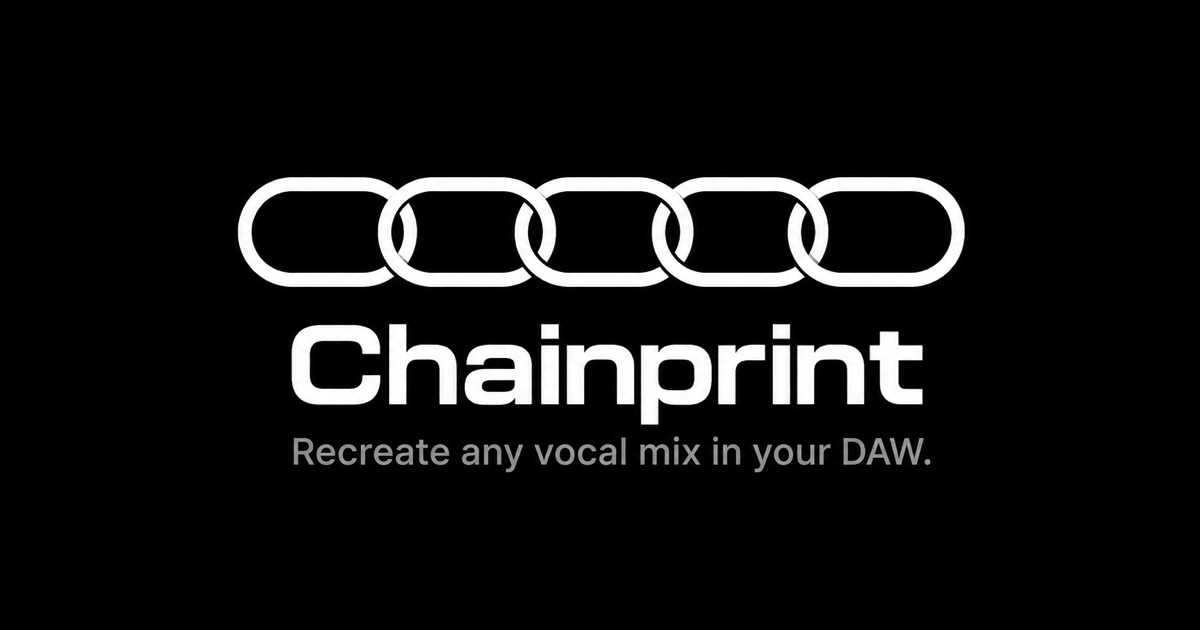
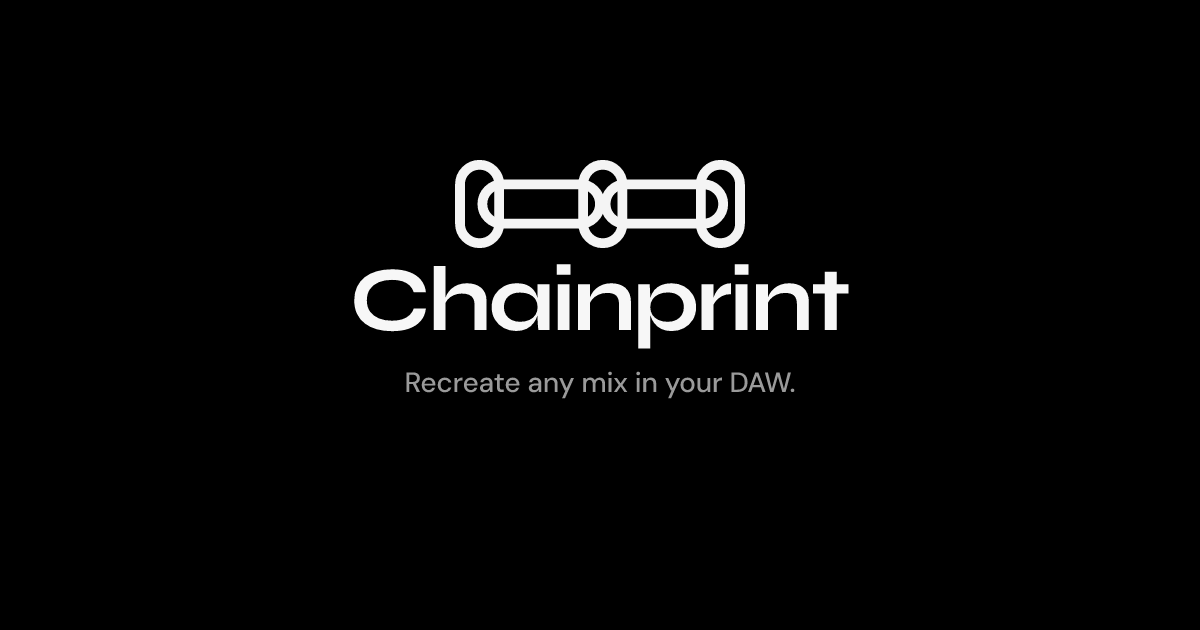
Replace OG image with the real chain mark and current tagline.
The old share preview used Audi-style rings and vocal-only copy; regenerate from mark.svg + Syne and cache-bust og:image URLs.

Changed region(s): [[0.185, 0.2413, 0.8017, 0.754]]

diff --git a/find/index.html b/find/index.html
@@ -22,8 +22,8 @@
   <meta property="og:title" content="Free Key Finder &amp; BPM Finder | Chainprint" />
   <meta property="og:description" content="Detect any song’s musical key, relative key, and BPM. Upload audio or paste a streaming link — free, fast, private." />
   <meta property="og:url" content="https://chainprint.app/find/" />
-  <meta property="og:image" content="https://chainprint.app/assets/og-image.png" />
-  <meta property="og:image:secure_url" content="https://chainprint.app/assets/og-image.png" />
+  <meta property="og:image" content="https://chainprint.app/assets/og-image.png?v=20260726" />
+  <meta property="og:image:secure_url" content="https://chainprint.app/assets/og-image.png?v=20260726" />
   <meta property="og:image:type" content="image/png" />
   <meta property="og:image:width" content="1200" />
   <meta property="og:image:height" content="630" />
@@ -31,7 +31,7 @@
   <meta name="twitter:card" content="summary_large_image" />
   <meta name="twitter:title" content="Free Key Finder &amp; BPM Finder | Chainprint" />
   <meta name="twitter:description" content="Find song key and BPM online. Upload a file or paste Spotify, Apple Music, YouTube, or SoundCloud." />
-  <meta name="twitter:image" content="https://chainprint.app/assets/og-image.png" />
+  <meta name="twitter:image" content="https://chainprint.app/assets/og-image.png?v=20260726" />
   <link rel="preconnect" href="https://fonts.googleapis.com" />
   <link rel="preconnect" href="https://fonts.gstatic.com" crossorigin />
   <link rel="stylesheet" href="https://fonts.googleapis.com/css2?family=DM+Sans:ital,opsz,wght@0,9..40,400;0,9..40,500;0,9..40,600;0,9..40,700;1,9..40,400&family=JetBrains+Mono:wght@400;500&family=Syne:wght@600;700;800&display=swap" />
@@ -71,7 +71,7 @@
           "name": "Chainprint",
           "url": "https://chainprint.app/"
         },
-        "image": "https://chainprint.app/assets/og-image.png"
+        "image": "https://chainprint.app/assets/og-image.png?v=20260726"
       },
       {
         "@type": "BreadcrumbList",

diff --git a/analyze/index.html b/analyze/index.html
@@ -21,16 +21,16 @@
   <meta property="og:title" content="CHAINPRINT — Vocal, Instrumental &amp; Full Mix" />
   <meta property="og:description" content="Reverse-engineer vocal, instrumental, or full-mix settings from any reference." />
   <meta property="og:url" content="https://chainprint.app/analyze/" />
-  <meta property="og:image" content="https://chainprint.app/assets/og-image.png" />
-  <meta property="og:image:secure_url" content="https://chainprint.app/assets/og-image.png" />
+  <meta property="og:image" content="https://chainprint.app/assets/og-image.png?v=20260726" />
+  <meta property="og:image:secure_url" content="https://chainprint.app/assets/og-image.png?v=20260726" />
   <meta property="og:image:type" content="image/png" />
   <meta property="og:image:width" content="1200" />
   <meta property="og:image:height" content="630" />
-  <meta property="og:image:alt" content="Chainprint — recreate any vocal mix in your DAW" />
+  <meta property="og:image:alt" content="Chainprint — recreate any mix in your DAW" />
   <meta name="twitter:card" content="summary_large_image" />
   <meta name="twitter:title" content="CHAINPRINT — Vocal, Instrumental &amp; Full Mix" />
   <meta name="twitter:description" content="Reverse-engineer vocal, instrumental, or full-mix settings from any reference." />
-  <meta name="twitter:image" content="https://chainprint.app/assets/og-image.png" />
+  <meta name="twitter:image" content="https://chainprint.app/assets/og-image.png?v=20260726" />
   <link rel="preconnect" href="https://fonts.googleapis.com" />
   <link rel="preconnect" href="https://fonts.gstatic.com" crossorigin />
   <link rel="stylesheet" href="https://fonts.googleapis.com/css2?family=DM+Sans:ital,opsz,wght@0,9..40,400;0,9..40,500;0,9..40,600;0,9..40,700;1,9..40,400&family=JetBrains+Mono:wght@400;500&family=Syne:wght@600;700;800&display=swap" />

diff --git a/auth/index.html b/auth/index.html
@@ -21,16 +21,16 @@
   <meta property="og:title" content="Sign up · Chainprint" />
   <meta property="og:description" content="Create a Chainprint account to reverse-engineer vocal mixes in your DAW." />
   <meta property="og:url" content="https://chainprint.app/auth/" />
-  <meta property="og:image" content="https://chainprint.app/assets/og-image.png" />
-  <meta property="og:image:secure_url" content="https://chainprint.app/assets/og-image.png" />
+  <meta property="og:image" content="https://chainprint.app/assets/og-image.png?v=20260726" />
+  <meta property="og:image:secure_url" content="https://chainprint.app/assets/og-image.png?v=20260726" />
   <meta property="og:image:type" content="image/png" />
   <meta property="og:image:width" content="1200" />
   <meta property="og:image:height" content="630" />
-  <meta property="og:image:alt" content="Chainprint — recreate any vocal mix in your DAW" />
+  <meta property="og:image:alt" content="Chainprint — recreate any mix in your DAW" />
   <meta name="twitter:card" content="summary_large_image" />
   <meta name="twitter:title" content="Sign up · Chainprint" />
   <meta name="twitter:description" content="Create a Chainprint account to reverse-engineer vocal mixes in your DAW." />
-  <meta name="twitter:image" content="https://chainprint.app/assets/og-image.png" />
+  <meta name="twitter:image" content="https://chainprint.app/assets/og-image.png?v=20260726" />
   <link rel="preconnect" href="https://fonts.googleapis.com" />
   <link rel="preconnect" href="https://fonts.gstatic.com" crossorigin />
   <link rel="stylesheet" href="https://fonts.googleapis.com/css2?family=DM+Sans:ital,opsz,wght@0,9..40,400;0,9..40,500;0,9..40,600;0,9..40,700;1,9..40,400&family=JetBrains+Mono:wght@400;500&family=Syne:wght@600;700;800&display=swap" />

diff --git a/calibration/index.html b/calibration/index.html
@@ -20,16 +20,16 @@
   <meta property="og:title" content="Calibration · Chainprint" />
   <meta property="og:description" content="Calibration bench — dump one CSV row per reference track." />
   <meta property="og:url" content="https://chainprint.app/calibration/" />
-  <meta property="og:image" content="https://chainprint.app/assets/og-image.png" />
-  <meta property="og:image:secure_url" content="https://chainprint.app/assets/og-image.png" />
+  <meta property="og:image" content="https://chainprint.app/assets/og-image.png?v=20260726" />
+  <meta property="og:image:secure_url" content="https://chainprint.app/assets/og-image.png?v=20260726" />
   <meta property="og:image:type" content="image/png" />
   <meta property="og:image:width" content="1200" />
   <meta property="og:image:height" content="630" />
-  <meta property="og:image:alt" content="Chainprint — recreate any vocal mix in your DAW" />
+  <meta property="og:image:alt" content="Chainprint — recreate any mix in your DAW" />
   <meta name="twitter:card" content="summary_large_image" />
   <meta name="twitter:title" content="Calibration · Chainprint" />
   <meta name="twitter:description" content="Calibration bench — dump one CSV row per reference track." />
-  <meta name="twitter:image" content="https://chainprint.app/assets/og-image.png" />
+  <meta name="twitter:image" content="https://chainprint.app/assets/og-image.png?v=20260726" />
   <link rel="preconnect" href="https://fonts.googleapis.com" />
   <link rel="preconnect" href="https://fonts.gstatic.com" crossorigin />
   <link rel="stylesheet" href="https://fonts.googleapis.com/css2?family=DM+Sans:ital,opsz,wght@0,9..40,400;0,9..40,500;0,9..40,600;0,9..40,700;1,9..40,400&family=JetBrains+Mono:wght@400;500&family=Syne:wght@600;700;800&display=swap" />

diff --git a/index.html b/index.html
@@ -21,8 +21,8 @@
   <meta property="og:title" content="Chainprint — Recreate Any Mix in Your DAW" />
   <meta property="og:description" content="Reverse-engineer vocal, instrumental, or full-mix references into a DAW chain you can rebuild." />
   <meta property="og:url" content="https://chainprint.app/" />
-  <meta property="og:image" content="https://chainprint.app/assets/og-image.png" />
-  <meta property="og:image:secure_url" content="https://chainprint.app/assets/og-image.png" />
+  <meta property="og:image" content="https://chainprint.app/assets/og-image.png?v=20260726" />
+  <meta property="og:image:secure_url" content="https://chainprint.app/assets/og-image.png?v=20260726" />
   <meta property="og:image:type" content="image/png" />
   <meta property="og:image:width" content="1200" />
   <meta property="og:image:height" content="630" />
@@ -30,7 +30,7 @@
   <meta name="twitter:card" content="summary_large_image" />
   <meta name="twitter:title" content="Chainprint — Recreate Any Mix in Your DAW" />
   <meta name="twitter:description" content="Reverse-engineer vocal, instrumental, or full-mix references into a DAW chain you can rebuild." />
-  <meta name="twitter:image" content="https://chainprint.app/assets/og-image.png" />
+  <meta name="twitter:image" content="https://chainprint.app/assets/og-image.png?v=20260726" />
   <link rel="preconnect" href="https://fonts.googleapis.com" />
   <link rel="preconnect" href="https://fonts.gstatic.com" crossorigin />
   <link rel="stylesheet" href="https://fonts.googleapis.com/css2?family=DM+Sans:ital,opsz,wght@0,9..40,400;0,9..40,500;0,9..40,600;0,9..40,700;1,9..40,400&family=JetBrains+Mono:wght@400;500&family=Syne:wght@600;700;800&display=swap" />

diff --git a/c/index.html b/c/index.html
@@ -14,7 +14,15 @@
   <meta property="og:type" content="website" />
   <meta property="og:site_name" content="Chainprint" />
   <meta property="og:title" content="Shared chain · Chainprint" />
-  <meta property="og:image" content="https://chainprint.app/assets/og-image.png" />
+  <meta property="og:description" content="A mix chain reverse-engineered with Chainprint — every stage, every setting." />
+  <meta property="og:image" content="https://chainprint.app/assets/og-image.png?v=20260726" />
+  <meta property="og:image:width" content="1200" />
+  <meta property="og:image:height" content="630" />
+  <meta property="og:image:alt" content="Chainprint — recreate any mix in your DAW" />
+  <meta name="twitter:card" content="summary_large_image" />
+  <meta name="twitter:title" content="Shared chain · Chainprint" />
+  <meta name="twitter:description" content="A mix chain reverse-engineered with Chainprint — every stage, every setting." />
+  <meta name="twitter:image" content="https://chainprint.app/assets/og-image.png?v=20260726" />
   <link rel="preconnect" href="https://fonts.googleapis.com" />
   <link rel="preconnect" href="https://fonts.gstatic.com" crossorigin />
   <link rel="stylesheet" href="https://fonts.googleapis.com/css2?family=DM+Sans:ital,opsz,wght@0,9..40,400;0,9..40,500;0,9..40,600;0,9..40,700;1,9..40,400&family=JetBrains+Mono:wght@400;500&family=Syne:wght@600;700;800&display=swap" />

diff --git a/tools/index.html b/tools/index.html
@@ -17,11 +17,11 @@
   <meta property="og:title" content="Tools · Chainprint" />
   <meta property="og:description" content="Every Chainprint feature — analyze studio, exports, Key · BPM finder, and more." />
   <meta property="og:url" content="https://chainprint.app/tools/" />
-  <meta property="og:image" content="https://chainprint.app/assets/og-image.png" />
+  <meta property="og:image" content="https://chainprint.app/assets/og-image.png?v=20260726" />
   <meta name="twitter:card" content="summary_large_image" />
   <meta name="twitter:title" content="Tools · Chainprint" />
   <meta name="twitter:description" content="Every Chainprint feature in one place." />
-  <meta name="twitter:image" content="https://chainprint.app/assets/og-image.png" />
+  <meta name="twitter:image" content="https://chainprint.app/assets/og-image.png?v=20260726" />
   <link rel="preconnect" href="https://fonts.googleapis.com" />
   <link rel="preconnect" href="https://fonts.gstatic.com" crossorigin />
   <link rel="stylesheet" href="https://fonts.googleapis.com/css2?family=DM+Sans:ital,opsz,wght@0,9..40,400;0,9..40,500;0,9..40,600;0,9..40,700;1,9..40,400&family=JetBrains+Mono:wght@400;500&family=Syne:wght@600;700;800&display=swap" />

diff --git a/help/index.html b/help/index.html
@@ -17,11 +17,11 @@
   <meta property="og:title" content="Help · Chainprint" />
   <meta property="og:description" content="A complete guide to Chainprint — analyze, rebuild, export, and verify by ear." />
   <meta property="og:url" content="https://chainprint.app/help/" />
-  <meta property="og:image" content="https://chainprint.app/assets/og-image.png" />
+  <meta property="og:image" content="https://chainprint.app/assets/og-image.png?v=20260726" />
   <meta name="twitter:card" content="summary_large_image" />
   <meta name="twitter:title" content="Help · Chainprint" />
   <meta name="twitter:description" content="How Chainprint works, end to end." />
-  <meta name="twitter:image" content="https://chainprint.app/assets/og-image.png" />
+  <meta name="twitter:image" content="https://chainprint.app/assets/og-image.png?v=20260726" />
   <link rel="preconnect" href="https://fonts.googleapis.com" />
   <link rel="preconnect" href="https://fonts.gstatic.com" crossorigin />
   <link rel="stylesheet" href="https://fonts.googleapis.com/css2?family=DM+Sans:ital,opsz,wght@0,9..40,400;0,9..40,500;0,9..40,600;0,9..40,700;1,9..40,400&family=JetBrains+Mono:wght@400;500&family=Syne:wght@600;700;800&display=swap" />

diff --git a/help/ableton-mcp/index.html b/help/ableton-mcp/index.html
@@ -17,7 +17,7 @@
   <meta property="og:title" content="Ableton MCP · Chainprint" />
   <meta property="og:description" content="Apply Chainprint mix chains directly inside Ableton Live via Claude or Cursor." />
   <meta property="og:url" content="https://chainprint.app/help/ableton-mcp/" />
-  <meta property="og:image" content="https://chainprint.app/assets/og-image.png" />
+  <meta property="og:image" content="https://chainprint.app/assets/og-image.png?v=20260726" />
   <link rel="preconnect" href="https://fonts.googleapis.com" />
   <link rel="preconnect" href="https://fonts.gstatic.com" crossorigin />
   <link rel="stylesheet" href="https://fonts.googleapis.com/css2?family=DM+Sans:ital,opsz,wght@0,9..40,400;0,9..40,500;0,9..40,600;0,9..40,700;1,9..40,400&family=JetBrains+Mono:wght@400;500&family=Syne:wght@600;700;800&display=swap" />

diff --git a/privacy/index.html b/privacy/index.html
@@ -16,7 +16,7 @@
   <meta property="og:site_name" content="Chainprint" />
   <meta property="og:title" content="Privacy Policy · Chainprint" />
   <meta property="og:url" content="https://chainprint.app/privacy/" />
-  <meta property="og:image" content="https://chainprint.app/assets/og-image.png" />
+  <meta property="og:image" content="https://chainprint.app/assets/og-image.png?v=20260726" />
   <link rel="preconnect" href="https://fonts.googleapis.com" />
   <link rel="preconnect" href="https://fonts.gstatic.com" crossorigin />
   <link rel="stylesheet" href="https://fonts.googleapis.com/css2?family=DM+Sans:ital,opsz,wght@0,9..40,400;0,9..40,500;0,9..40,600;0,9..40,700;1,9..40,400&family=JetBrains+Mono:wght@400;500&family=Syne:wght@600;700;800&display=swap" />

diff --git a/terms/index.html b/terms/index.html
@@ -16,7 +16,7 @@
   <meta property="og:site_name" content="Chainprint" />
   <meta property="og:title" content="Terms of Service · Chainprint" />
   <meta property="og:url" content="https://chainprint.app/terms/" />
-  <meta property="og:image" content="https://chainprint.app/assets/og-image.png" />
+  <meta property="og:image" content="https://chainprint.app/assets/og-image.png?v=20260726" />
   <link rel="preconnect" href="https://fonts.googleapis.com" />
   <link rel="preconnect" href="https://fonts.gstatic.com" crossorigin />
   <link rel="stylesheet" href="https://fonts.googleapis.com/css2?family=DM+Sans:ital,opsz,wght@0,9..40,400;0,9..40,500;0,9..40,600;0,9..40,700;1,9..40,400&family=JetBrains+Mono:wght@400;500&family=Syne:wght@600;700;800&display=swap" />
